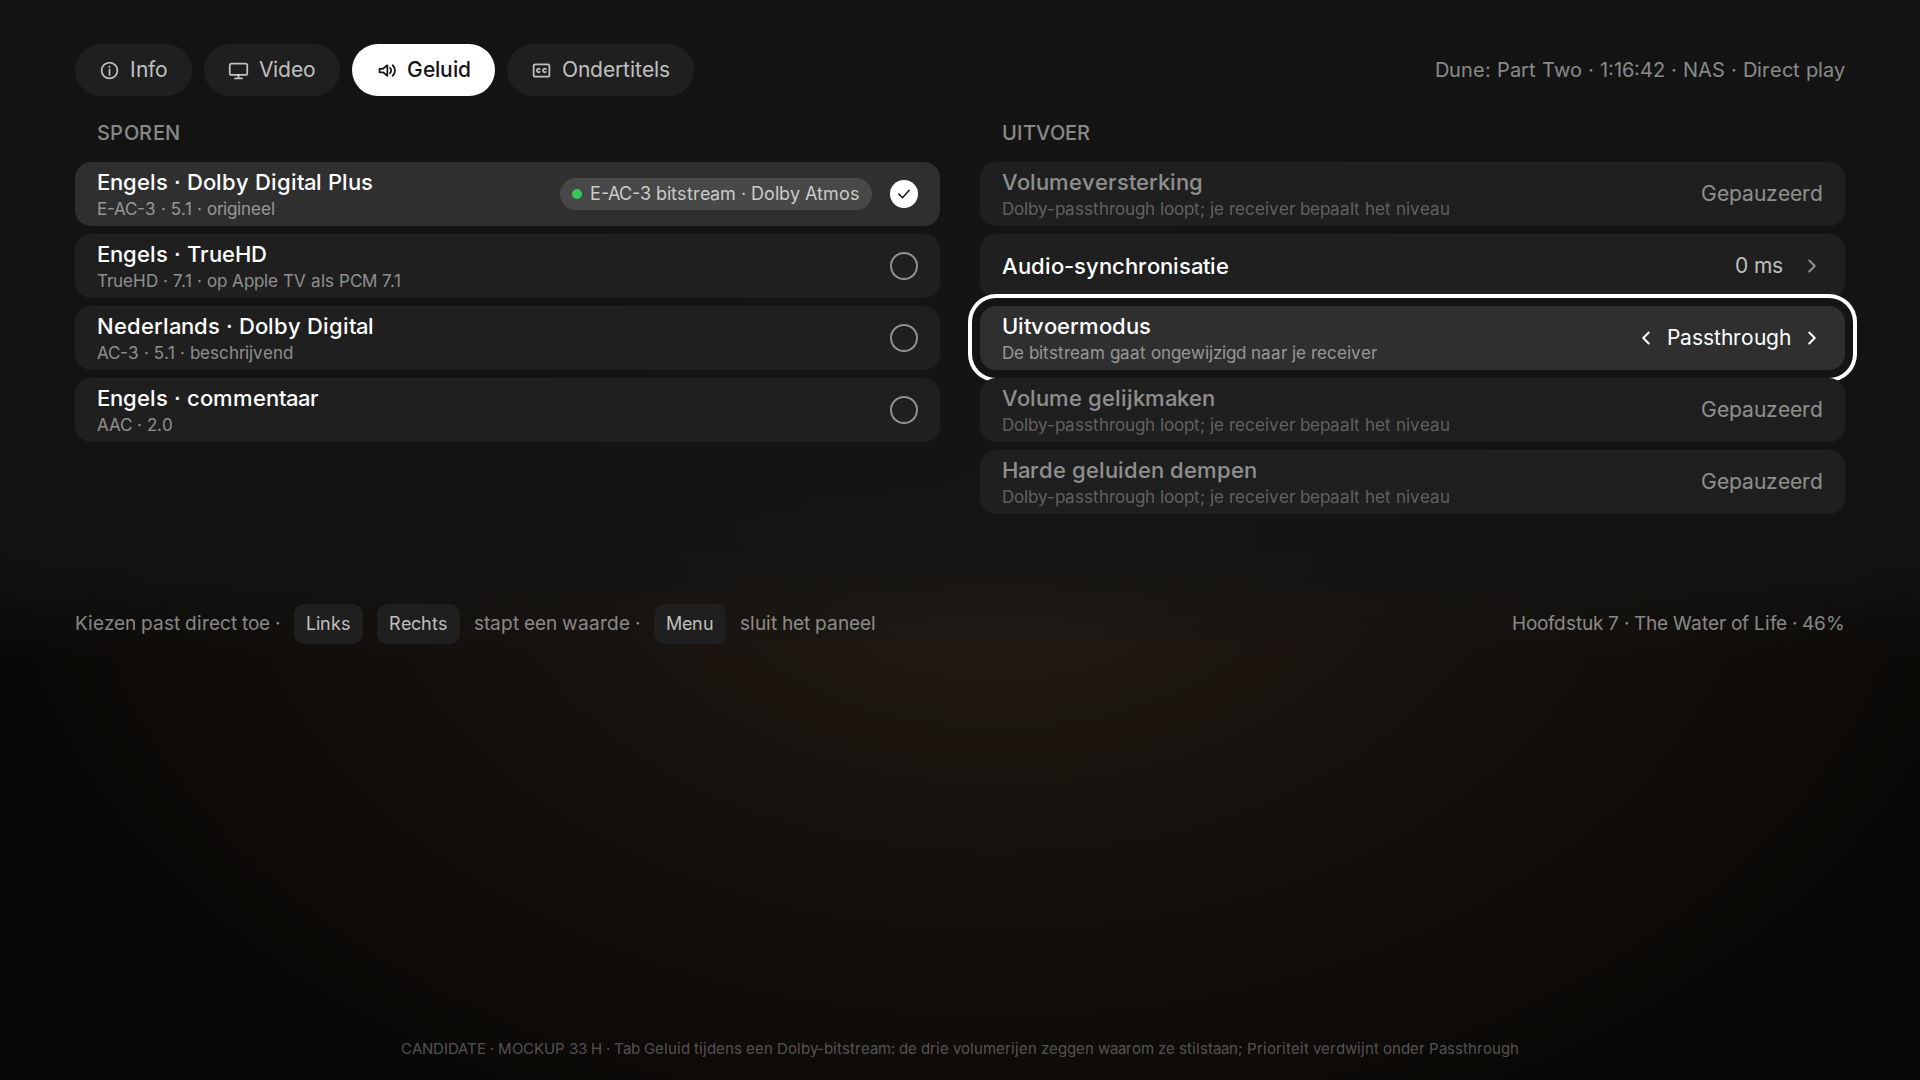
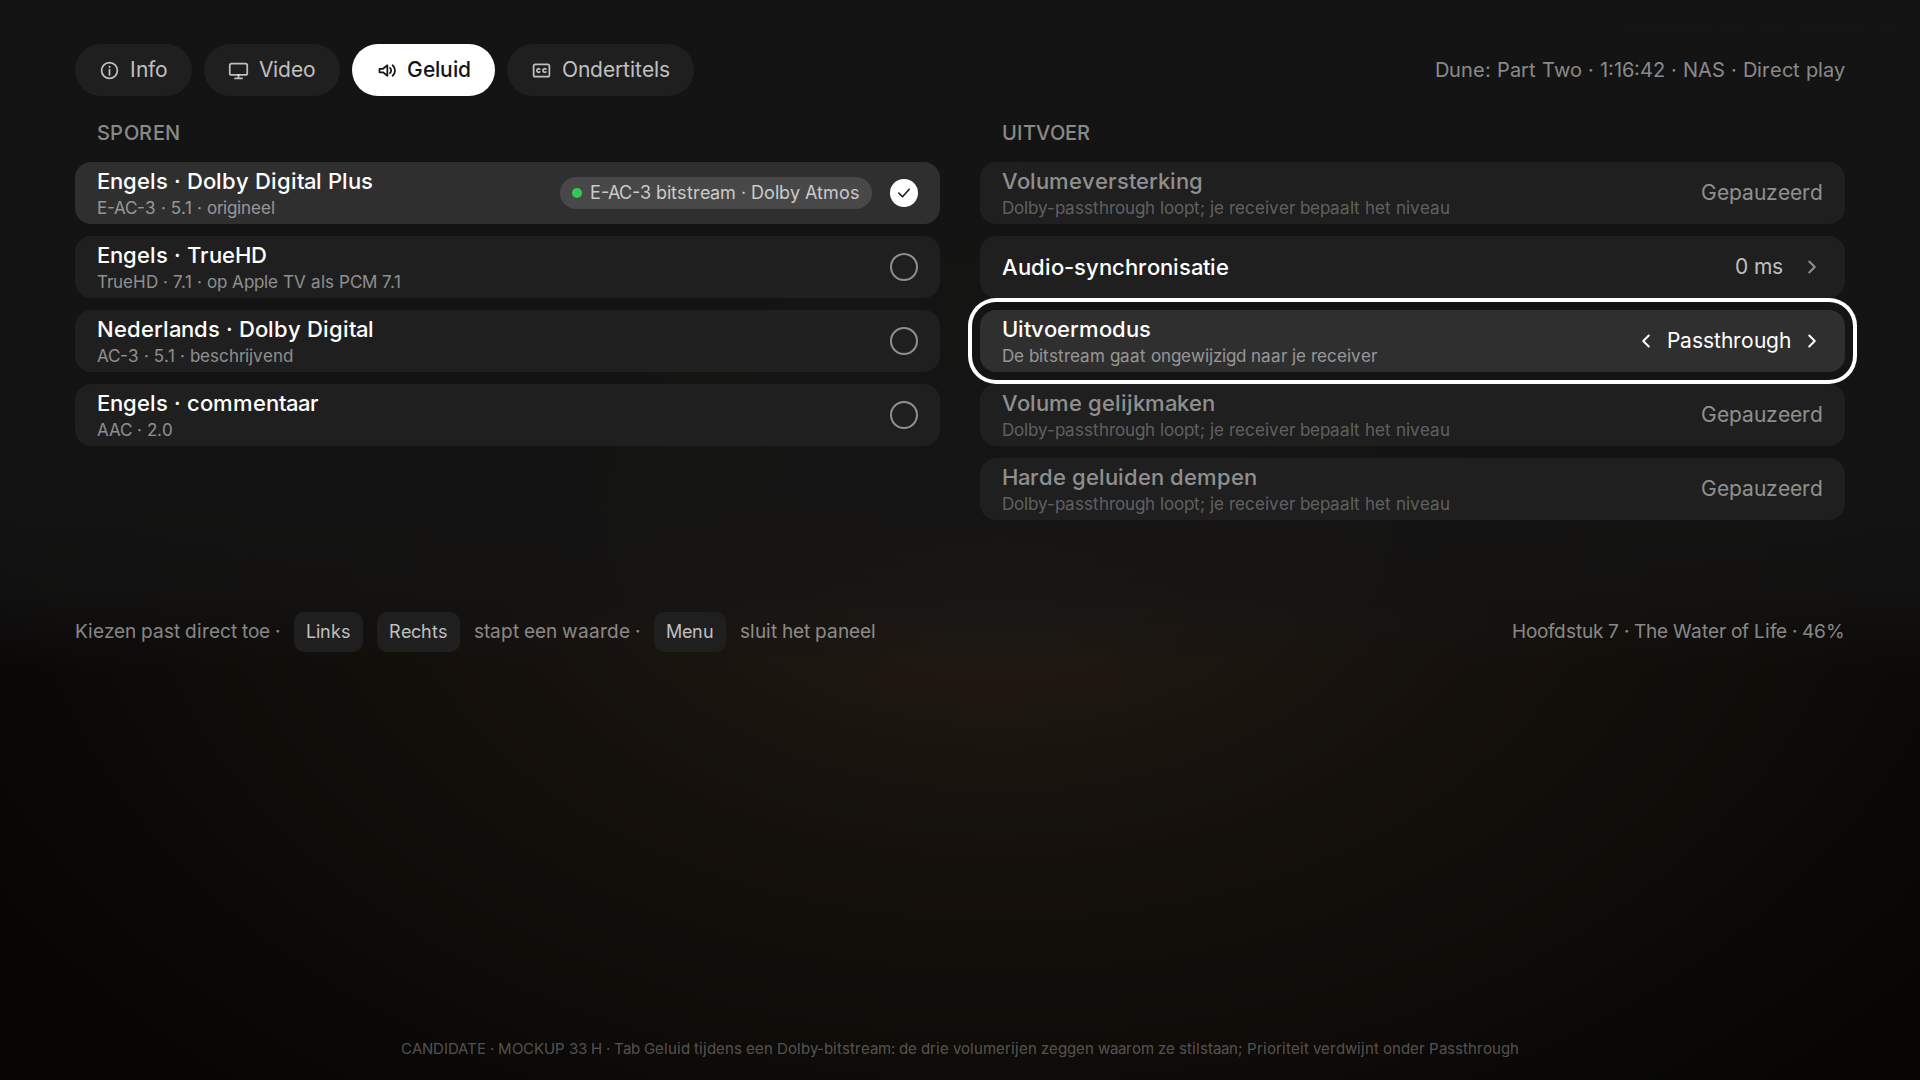
docs(tv): mockup 33, de focusring wordt niet meer afgesneden door de volgende rij
De ring steekt 12 px buiten de rij, de rijen stonden op 8 px en de volgende rij
tekende over de onderrand heen. Rijafstand terug naar de 12 px van tv.css, en een
gefocuste rij of pill tekent boven zijn buren.

Claude-Session: https://claude.ai/code/session_01Coo9awv2whS8q3HcB3bQhP

diff --git a/docs/assets/tvos-unified/src/pages/33-speler-paneel-a.html b/docs/assets/tvos-unified/src/pages/33-speler-paneel-a.html
@@ -2,7 +2,7 @@
 .video { position: absolute; inset: 0; }
 .video img { width: 100%; height: 100%; object-fit: cover; object-position: 50% 30%; display: block; filter: brightness(.5); }
 /* bovenband: eindigt op 640, de onderste 120 lopen naar de video zodat het beeld eronder leesbaar blijft */
-.panel { position: absolute; left: 0; right: 0; top: 0; height: 660px; padding: 44px var(--inset) 0;
+.panel { position: absolute; left: 0; right: 0; top: 0; height: 672px; padding: 44px var(--inset) 0;
   background: linear-gradient(180deg, rgba(20,20,20,.96) 0%, rgba(20,20,20,.94) 74%, rgba(20,20,20,.72) 88%, rgba(20,20,20,0) 100%); }
 .ptabs { display: flex; gap: 12px; align-items: center; height: 52px; }
 .ptabs .now { margin-left: auto; font-size: 20px; color: var(--ink-3); white-space: nowrap; }
@@ -12,8 +12,10 @@
 .cols { display: grid; grid-template-columns: 1fr 1fr; gap: 40px; margin-top: 24px; }
 .cols.one { grid-template-columns: 1fr; }
 .sec { font-size: 20px; font-weight: 500; color: var(--ink-3); letter-spacing: .02em; text-transform: uppercase; margin: 0 0 16px 22px; }
-.col .rows { gap: 8px; }
-.col .row { min-height: 64px; padding: 0 22px; gap: 18px; }
+.col .rows { gap: 12px; }
+/* de ring steekt 12 px buiten de rij; de buren mogen er niet overheen tekenen */
+.col .row.focus, .chip-btn.focus { position: relative; z-index: 1; }
+.col .row { min-height: 62px; padding: 0 22px; gap: 18px; }
 .col .row .t { font-size: 22px; }
 .col .row .s { font-size: 17px; margin-top: 1px; }
 .col .row .val { font-size: 21px; }
@@ -32,7 +34,7 @@
 .step .ic { width: 22px; height: 22px; color: var(--ink); flex: none; }
 .step.rest .ic { color: var(--ink-4); }
 .step.rest .val { color: var(--ink-2); }
-.hintbar { position: absolute; left: var(--inset); right: var(--inset); top: 604px; display: flex; align-items: center; justify-content: space-between; }
+.hintbar { position: absolute; left: var(--inset); right: var(--inset); top: 612px; display: flex; align-items: center; justify-content: space-between; }
 .hintbar .hint { font-size: 19px; }
 .hintbar .pos { font-size: 19px; color: var(--ink-3); }
 .badge-now { display: inline-flex; align-items: center; gap: 8px; font-size: 18px; color: var(--ink-2); background: var(--fill-2); border-radius: 999px; padding: 4px 12px; white-space: nowrap; }

diff --git a/docs/assets/tvos-unified/src/pages/33-speler-paneel-b.html b/docs/assets/tvos-unified/src/pages/33-speler-paneel-b.html
@@ -2,7 +2,7 @@
 .video { position: absolute; inset: 0; }
 .video img { width: 100%; height: 100%; object-fit: cover; object-position: 50% 30%; display: block; filter: brightness(.5); }
 /* bovenband: eindigt op 640, de onderste 120 lopen naar de video zodat het beeld eronder leesbaar blijft */
-.panel { position: absolute; left: 0; right: 0; top: 0; height: 660px; padding: 44px var(--inset) 0;
+.panel { position: absolute; left: 0; right: 0; top: 0; height: 672px; padding: 44px var(--inset) 0;
   background: linear-gradient(180deg, rgba(20,20,20,.96) 0%, rgba(20,20,20,.94) 74%, rgba(20,20,20,.72) 88%, rgba(20,20,20,0) 100%); }
 .ptabs { display: flex; gap: 12px; align-items: center; height: 52px; }
 .ptabs .now { margin-left: auto; font-size: 20px; color: var(--ink-3); white-space: nowrap; }
@@ -12,8 +12,10 @@
 .cols { display: grid; grid-template-columns: 1fr 1fr; gap: 40px; margin-top: 24px; }
 .cols.one { grid-template-columns: 1fr; }
 .sec { font-size: 20px; font-weight: 500; color: var(--ink-3); letter-spacing: .02em; text-transform: uppercase; margin: 0 0 16px 22px; }
-.col .rows { gap: 8px; }
-.col .row { min-height: 64px; padding: 0 22px; gap: 18px; }
+.col .rows { gap: 12px; }
+/* de ring steekt 12 px buiten de rij; de buren mogen er niet overheen tekenen */
+.col .row.focus, .chip-btn.focus { position: relative; z-index: 1; }
+.col .row { min-height: 62px; padding: 0 22px; gap: 18px; }
 .col .row .t { font-size: 22px; }
 .col .row .s { font-size: 17px; margin-top: 1px; }
 .col .row .val { font-size: 21px; }
@@ -32,7 +34,7 @@
 .step .ic { width: 22px; height: 22px; color: var(--ink); flex: none; }
 .step.rest .ic { color: var(--ink-4); }
 .step.rest .val { color: var(--ink-2); }
-.hintbar { position: absolute; left: var(--inset); right: var(--inset); top: 604px; display: flex; align-items: center; justify-content: space-between; }
+.hintbar { position: absolute; left: var(--inset); right: var(--inset); top: 612px; display: flex; align-items: center; justify-content: space-between; }
 .hintbar .hint { font-size: 19px; }
 .hintbar .pos { font-size: 19px; color: var(--ink-3); }
 .badge-now { display: inline-flex; align-items: center; gap: 8px; font-size: 18px; color: var(--ink-2); background: var(--fill-2); border-radius: 999px; padding: 4px 12px; white-space: nowrap; }

diff --git a/docs/assets/tvos-unified/src/pages/33-speler-paneel-c.html b/docs/assets/tvos-unified/src/pages/33-speler-paneel-c.html
@@ -2,7 +2,7 @@
 .video { position: absolute; inset: 0; }
 .video img { width: 100%; height: 100%; object-fit: cover; object-position: 50% 30%; display: block; filter: brightness(.5); }
 /* bovenband: eindigt op 640, de onderste 120 lopen naar de video zodat het beeld eronder leesbaar blijft */
-.panel { position: absolute; left: 0; right: 0; top: 0; height: 660px; padding: 44px var(--inset) 0;
+.panel { position: absolute; left: 0; right: 0; top: 0; height: 672px; padding: 44px var(--inset) 0;
   background: linear-gradient(180deg, rgba(20,20,20,.96) 0%, rgba(20,20,20,.94) 74%, rgba(20,20,20,.72) 88%, rgba(20,20,20,0) 100%); }
 .ptabs { display: flex; gap: 12px; align-items: center; height: 52px; }
 .ptabs .now { margin-left: auto; font-size: 20px; color: var(--ink-3); white-space: nowrap; }
@@ -12,8 +12,10 @@
 .cols { display: grid; grid-template-columns: 1fr 1fr; gap: 40px; margin-top: 24px; }
 .cols.one { grid-template-columns: 1fr; }
 .sec { font-size: 20px; font-weight: 500; color: var(--ink-3); letter-spacing: .02em; text-transform: uppercase; margin: 0 0 16px 22px; }
-.col .rows { gap: 8px; }
-.col .row { min-height: 64px; padding: 0 22px; gap: 18px; }
+.col .rows { gap: 12px; }
+/* de ring steekt 12 px buiten de rij; de buren mogen er niet overheen tekenen */
+.col .row.focus, .chip-btn.focus { position: relative; z-index: 1; }
+.col .row { min-height: 62px; padding: 0 22px; gap: 18px; }
 .col .row .t { font-size: 22px; }
 .col .row .s { font-size: 17px; margin-top: 1px; }
 .col .row .val { font-size: 21px; }
@@ -32,7 +34,7 @@
 .step .ic { width: 22px; height: 22px; color: var(--ink); flex: none; }
 .step.rest .ic { color: var(--ink-4); }
 .step.rest .val { color: var(--ink-2); }
-.hintbar { position: absolute; left: var(--inset); right: var(--inset); top: 604px; display: flex; align-items: center; justify-content: space-between; }
+.hintbar { position: absolute; left: var(--inset); right: var(--inset); top: 612px; display: flex; align-items: center; justify-content: space-between; }
 .hintbar .hint { font-size: 19px; }
 .hintbar .pos { font-size: 19px; color: var(--ink-3); }
 .badge-now { display: inline-flex; align-items: center; gap: 8px; font-size: 18px; color: var(--ink-2); background: var(--fill-2); border-radius: 999px; padding: 4px 12px; white-space: nowrap; }

diff --git a/docs/assets/tvos-unified/src/pages/33-speler-paneel-d.html b/docs/assets/tvos-unified/src/pages/33-speler-paneel-d.html
@@ -2,7 +2,7 @@
 .video { position: absolute; inset: 0; }
 .video img { width: 100%; height: 100%; object-fit: cover; object-position: 50% 30%; display: block; filter: brightness(.5); }
 /* bovenband: eindigt op 640, de onderste 120 lopen naar de video zodat het beeld eronder leesbaar blijft */
-.panel { position: absolute; left: 0; right: 0; top: 0; height: 660px; padding: 44px var(--inset) 0;
+.panel { position: absolute; left: 0; right: 0; top: 0; height: 672px; padding: 44px var(--inset) 0;
   background: linear-gradient(180deg, rgba(20,20,20,.96) 0%, rgba(20,20,20,.94) 74%, rgba(20,20,20,.72) 88%, rgba(20,20,20,0) 100%); }
 .ptabs { display: flex; gap: 12px; align-items: center; height: 52px; }
 .ptabs .now { margin-left: auto; font-size: 20px; color: var(--ink-3); white-space: nowrap; }
@@ -12,8 +12,10 @@
 .cols { display: grid; grid-template-columns: 1fr 1fr; gap: 40px; margin-top: 24px; }
 .cols.one { grid-template-columns: 1fr; }
 .sec { font-size: 20px; font-weight: 500; color: var(--ink-3); letter-spacing: .02em; text-transform: uppercase; margin: 0 0 16px 22px; }
-.col .rows { gap: 8px; }
-.col .row { min-height: 64px; padding: 0 22px; gap: 18px; }
+.col .rows { gap: 12px; }
+/* de ring steekt 12 px buiten de rij; de buren mogen er niet overheen tekenen */
+.col .row.focus, .chip-btn.focus { position: relative; z-index: 1; }
+.col .row { min-height: 62px; padding: 0 22px; gap: 18px; }
 .col .row .t { font-size: 22px; }
 .col .row .s { font-size: 17px; margin-top: 1px; }
 .col .row .val { font-size: 21px; }
@@ -32,7 +34,7 @@
 .step .ic { width: 22px; height: 22px; color: var(--ink); flex: none; }
 .step.rest .ic { color: var(--ink-4); }
 .step.rest .val { color: var(--ink-2); }
-.hintbar { position: absolute; left: var(--inset); right: var(--inset); top: 604px; display: flex; align-items: center; justify-content: space-between; }
+.hintbar { position: absolute; left: var(--inset); right: var(--inset); top: 612px; display: flex; align-items: center; justify-content: space-between; }
 .hintbar .hint { font-size: 19px; }
 .hintbar .pos { font-size: 19px; color: var(--ink-3); }
 .badge-now { display: inline-flex; align-items: center; gap: 8px; font-size: 18px; color: var(--ink-2); background: var(--fill-2); border-radius: 999px; padding: 4px 12px; white-space: nowrap; }

diff --git a/docs/assets/tvos-unified/src/pages/33-speler-paneel-e.html b/docs/assets/tvos-unified/src/pages/33-speler-paneel-e.html
@@ -2,7 +2,7 @@
 .video { position: absolute; inset: 0; }
 .video img { width: 100%; height: 100%; object-fit: cover; object-position: 50% 30%; display: block; filter: brightness(.5); }
 /* bovenband: eindigt op 640, de onderste 120 lopen naar de video zodat het beeld eronder leesbaar blijft */
-.panel { position: absolute; left: 0; right: 0; top: 0; height: 660px; padding: 44px var(--inset) 0;
+.panel { position: absolute; left: 0; right: 0; top: 0; height: 672px; padding: 44px var(--inset) 0;
   background: linear-gradient(180deg, rgba(20,20,20,.96) 0%, rgba(20,20,20,.94) 74%, rgba(20,20,20,.72) 88%, rgba(20,20,20,0) 100%); }
 .ptabs { display: flex; gap: 12px; align-items: center; height: 52px; }
 .ptabs .now { margin-left: auto; font-size: 20px; color: var(--ink-3); white-space: nowrap; }
@@ -12,8 +12,10 @@
 .cols { display: grid; grid-template-columns: 1fr 1fr; gap: 40px; margin-top: 24px; }
 .cols.one { grid-template-columns: 1fr; }
 .sec { font-size: 20px; font-weight: 500; color: var(--ink-3); letter-spacing: .02em; text-transform: uppercase; margin: 0 0 16px 22px; }
-.col .rows { gap: 8px; }
-.col .row { min-height: 64px; padding: 0 22px; gap: 18px; }
+.col .rows { gap: 12px; }
+/* de ring steekt 12 px buiten de rij; de buren mogen er niet overheen tekenen */
+.col .row.focus, .chip-btn.focus { position: relative; z-index: 1; }
+.col .row { min-height: 62px; padding: 0 22px; gap: 18px; }
 .col .row .t { font-size: 22px; }
 .col .row .s { font-size: 17px; margin-top: 1px; }
 .col .row .val { font-size: 21px; }
@@ -32,7 +34,7 @@
 .step .ic { width: 22px; height: 22px; color: var(--ink); flex: none; }
 .step.rest .ic { color: var(--ink-4); }
 .step.rest .val { color: var(--ink-2); }
-.hintbar { position: absolute; left: var(--inset); right: var(--inset); top: 604px; display: flex; align-items: center; justify-content: space-between; }
+.hintbar { position: absolute; left: var(--inset); right: var(--inset); top: 612px; display: flex; align-items: center; justify-content: space-between; }
 .hintbar .hint { font-size: 19px; }
 .hintbar .pos { font-size: 19px; color: var(--ink-3); }
 .badge-now { display: inline-flex; align-items: center; gap: 8px; font-size: 18px; color: var(--ink-2); background: var(--fill-2); border-radius: 999px; padding: 4px 12px; white-space: nowrap; }

diff --git a/docs/assets/tvos-unified/src/pages/33-speler-paneel-f.html b/docs/assets/tvos-unified/src/pages/33-speler-paneel-f.html
@@ -2,7 +2,7 @@
 .video { position: absolute; inset: 0; }
 .video img { width: 100%; height: 100%; object-fit: cover; object-position: 50% 30%; display: block; filter: brightness(.5); }
 /* bovenband: eindigt op 640, de onderste 120 lopen naar de video zodat het beeld eronder leesbaar blijft */
-.panel { position: absolute; left: 0; right: 0; top: 0; height: 660px; padding: 44px var(--inset) 0;
+.panel { position: absolute; left: 0; right: 0; top: 0; height: 672px; padding: 44px var(--inset) 0;
   background: linear-gradient(180deg, rgba(20,20,20,.96) 0%, rgba(20,20,20,.94) 74%, rgba(20,20,20,.72) 88%, rgba(20,20,20,0) 100%); }
 .ptabs { display: flex; gap: 12px; align-items: center; height: 52px; }
 .ptabs .now { margin-left: auto; font-size: 20px; color: var(--ink-3); white-space: nowrap; }
@@ -12,8 +12,10 @@
 .cols { display: grid; grid-template-columns: 1fr 1fr; gap: 40px; margin-top: 24px; }
 .cols.one { grid-template-columns: 1fr; }
 .sec { font-size: 20px; font-weight: 500; color: var(--ink-3); letter-spacing: .02em; text-transform: uppercase; margin: 0 0 16px 22px; }
-.col .rows { gap: 8px; }
-.col .row { min-height: 64px; padding: 0 22px; gap: 18px; }
+.col .rows { gap: 12px; }
+/* de ring steekt 12 px buiten de rij; de buren mogen er niet overheen tekenen */
+.col .row.focus, .chip-btn.focus { position: relative; z-index: 1; }
+.col .row { min-height: 62px; padding: 0 22px; gap: 18px; }
 .col .row .t { font-size: 22px; }
 .col .row .s { font-size: 17px; margin-top: 1px; }
 .col .row .val { font-size: 21px; }
@@ -32,7 +34,7 @@
 .step .ic { width: 22px; height: 22px; color: var(--ink); flex: none; }
 .step.rest .ic { color: var(--ink-4); }
 .step.rest .val { color: var(--ink-2); }
-.hintbar { position: absolute; left: var(--inset); right: var(--inset); top: 604px; display: flex; align-items: center; justify-content: space-between; }
+.hintbar { position: absolute; left: var(--inset); right: var(--inset); top: 612px; display: flex; align-items: center; justify-content: space-between; }
 .hintbar .hint { font-size: 19px; }
 .hintbar .pos { font-size: 19px; color: var(--ink-3); }
 .badge-now { display: inline-flex; align-items: center; gap: 8px; font-size: 18px; color: var(--ink-2); background: var(--fill-2); border-radius: 999px; padding: 4px 12px; white-space: nowrap; }

diff --git a/docs/assets/tvos-unified/src/pages/33-speler-paneel-g.html b/docs/assets/tvos-unified/src/pages/33-speler-paneel-g.html
@@ -2,7 +2,7 @@
 .video { position: absolute; inset: 0; }
 .video img { width: 100%; height: 100%; object-fit: cover; object-position: 50% 30%; display: block; filter: brightness(.5); }
 /* bovenband: eindigt op 640, de onderste 120 lopen naar de video zodat het beeld eronder leesbaar blijft */
-.panel { position: absolute; left: 0; right: 0; top: 0; height: 660px; padding: 44px var(--inset) 0;
+.panel { position: absolute; left: 0; right: 0; top: 0; height: 672px; padding: 44px var(--inset) 0;
   background: linear-gradient(180deg, rgba(20,20,20,.96) 0%, rgba(20,20,20,.94) 74%, rgba(20,20,20,.72) 88%, rgba(20,20,20,0) 100%); }
 .ptabs { display: flex; gap: 12px; align-items: center; height: 52px; }
 .ptabs .now { margin-left: auto; font-size: 20px; color: var(--ink-3); white-space: nowrap; }
@@ -12,8 +12,10 @@
 .cols { display: grid; grid-template-columns: 1fr 1fr; gap: 40px; margin-top: 24px; }
 .cols.one { grid-template-columns: 1fr; }
 .sec { font-size: 20px; font-weight: 500; color: var(--ink-3); letter-spacing: .02em; text-transform: uppercase; margin: 0 0 16px 22px; }
-.col .rows { gap: 8px; }
-.col .row { min-height: 64px; padding: 0 22px; gap: 18px; }
+.col .rows { gap: 12px; }
+/* de ring steekt 12 px buiten de rij; de buren mogen er niet overheen tekenen */
+.col .row.focus, .chip-btn.focus { position: relative; z-index: 1; }
+.col .row { min-height: 62px; padding: 0 22px; gap: 18px; }
 .col .row .t { font-size: 22px; }
 .col .row .s { font-size: 17px; margin-top: 1px; }
 .col .row .val { font-size: 21px; }
@@ -32,7 +34,7 @@
 .step .ic { width: 22px; height: 22px; color: var(--ink); flex: none; }
 .step.rest .ic { color: var(--ink-4); }
 .step.rest .val { color: var(--ink-2); }
-.hintbar { position: absolute; left: var(--inset); right: var(--inset); top: 604px; display: flex; align-items: center; justify-content: space-between; }
+.hintbar { position: absolute; left: var(--inset); right: var(--inset); top: 612px; display: flex; align-items: center; justify-content: space-between; }
 .hintbar .hint { font-size: 19px; }
 .hintbar .pos { font-size: 19px; color: var(--ink-3); }
 .badge-now { display: inline-flex; align-items: center; gap: 8px; font-size: 18px; color: var(--ink-2); background: var(--fill-2); border-radius: 999px; padding: 4px 12px; white-space: nowrap; }

diff --git a/docs/assets/tvos-unified/src/pages/33-speler-paneel-h.html b/docs/assets/tvos-unified/src/pages/33-speler-paneel-h.html
@@ -2,7 +2,7 @@
 .video { position: absolute; inset: 0; }
 .video img { width: 100%; height: 100%; object-fit: cover; object-position: 50% 30%; display: block; filter: brightness(.5); }
 /* bovenband: eindigt op 640, de onderste 120 lopen naar de video zodat het beeld eronder leesbaar blijft */
-.panel { position: absolute; left: 0; right: 0; top: 0; height: 660px; padding: 44px var(--inset) 0;
+.panel { position: absolute; left: 0; right: 0; top: 0; height: 672px; padding: 44px var(--inset) 0;
   background: linear-gradient(180deg, rgba(20,20,20,.96) 0%, rgba(20,20,20,.94) 74%, rgba(20,20,20,.72) 88%, rgba(20,20,20,0) 100%); }
 .ptabs { display: flex; gap: 12px; align-items: center; height: 52px; }
 .ptabs .now { margin-left: auto; font-size: 20px; color: var(--ink-3); white-space: nowrap; }
@@ -12,8 +12,10 @@
 .cols { display: grid; grid-template-columns: 1fr 1fr; gap: 40px; margin-top: 24px; }
 .cols.one { grid-template-columns: 1fr; }
 .sec { font-size: 20px; font-weight: 500; color: var(--ink-3); letter-spacing: .02em; text-transform: uppercase; margin: 0 0 16px 22px; }
-.col .rows { gap: 8px; }
-.col .row { min-height: 64px; padding: 0 22px; gap: 18px; }
+.col .rows { gap: 12px; }
+/* de ring steekt 12 px buiten de rij; de buren mogen er niet overheen tekenen */
+.col .row.focus, .chip-btn.focus { position: relative; z-index: 1; }
+.col .row { min-height: 62px; padding: 0 22px; gap: 18px; }
 .col .row .t { font-size: 22px; }
 .col .row .s { font-size: 17px; margin-top: 1px; }
 .col .row .val { font-size: 21px; }
@@ -32,7 +34,7 @@
 .step .ic { width: 22px; height: 22px; color: var(--ink); flex: none; }
 .step.rest .ic { color: var(--ink-4); }
 .step.rest .val { color: var(--ink-2); }
-.hintbar { position: absolute; left: var(--inset); right: var(--inset); top: 604px; display: flex; align-items: center; justify-content: space-between; }
+.hintbar { position: absolute; left: var(--inset); right: var(--inset); top: 612px; display: flex; align-items: center; justify-content: space-between; }
 .hintbar .hint { font-size: 19px; }
 .hintbar .pos { font-size: 19px; color: var(--ink-3); }
 .badge-now { display: inline-flex; align-items: center; gap: 8px; font-size: 18px; color: var(--ink-2); background: var(--fill-2); border-radius: 999px; padding: 4px 12px; white-space: nowrap; }
